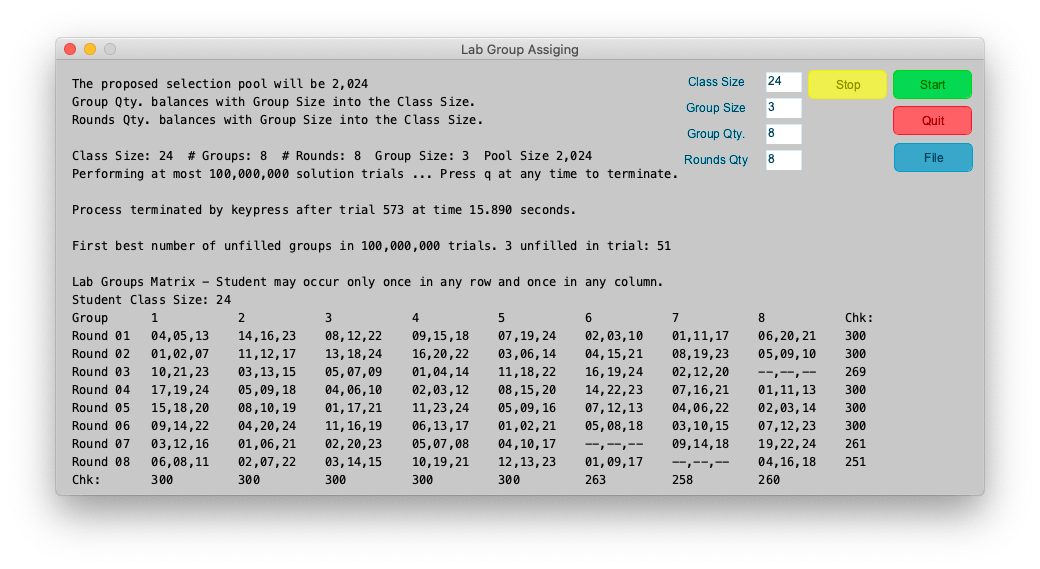
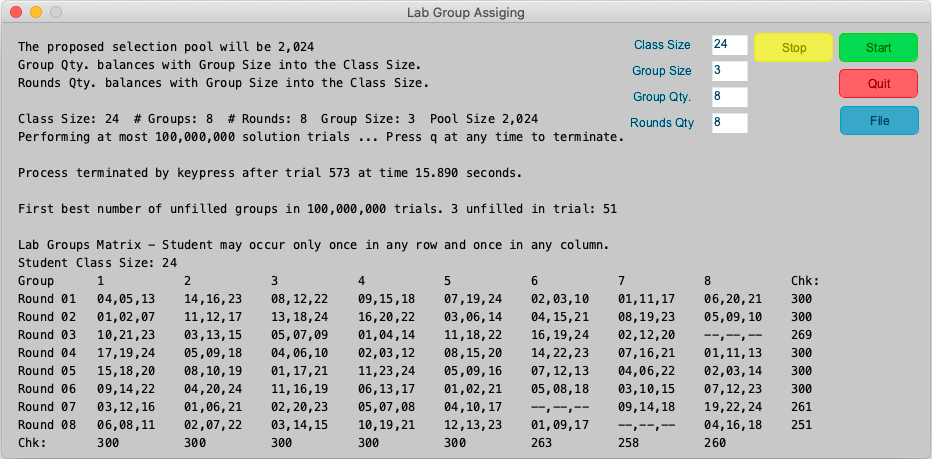
Readme edits

diff --git a/README.md b/README.md
@@ -1,5 +1,5 @@
 # Lab Group Assigning
-
+![Example Screen While Running](./readme-images/6x6x4.png)
 * A tool for teachers to assign students to lab groups written in Processing's java code [Processing](processing.org) .
 * This tool selects groups of student teams from a student class population to be involved in lab tasks during experiment rounds. Each student is involved once every session round and once for each different tasks. 
 * Each lab group, i.e. a combination of students as a team, like a student pair for example, is assigned no more than once. The number of possible lab groups, referred to as Pool Size, is the number of group sized student combinations chosen from the class size.
